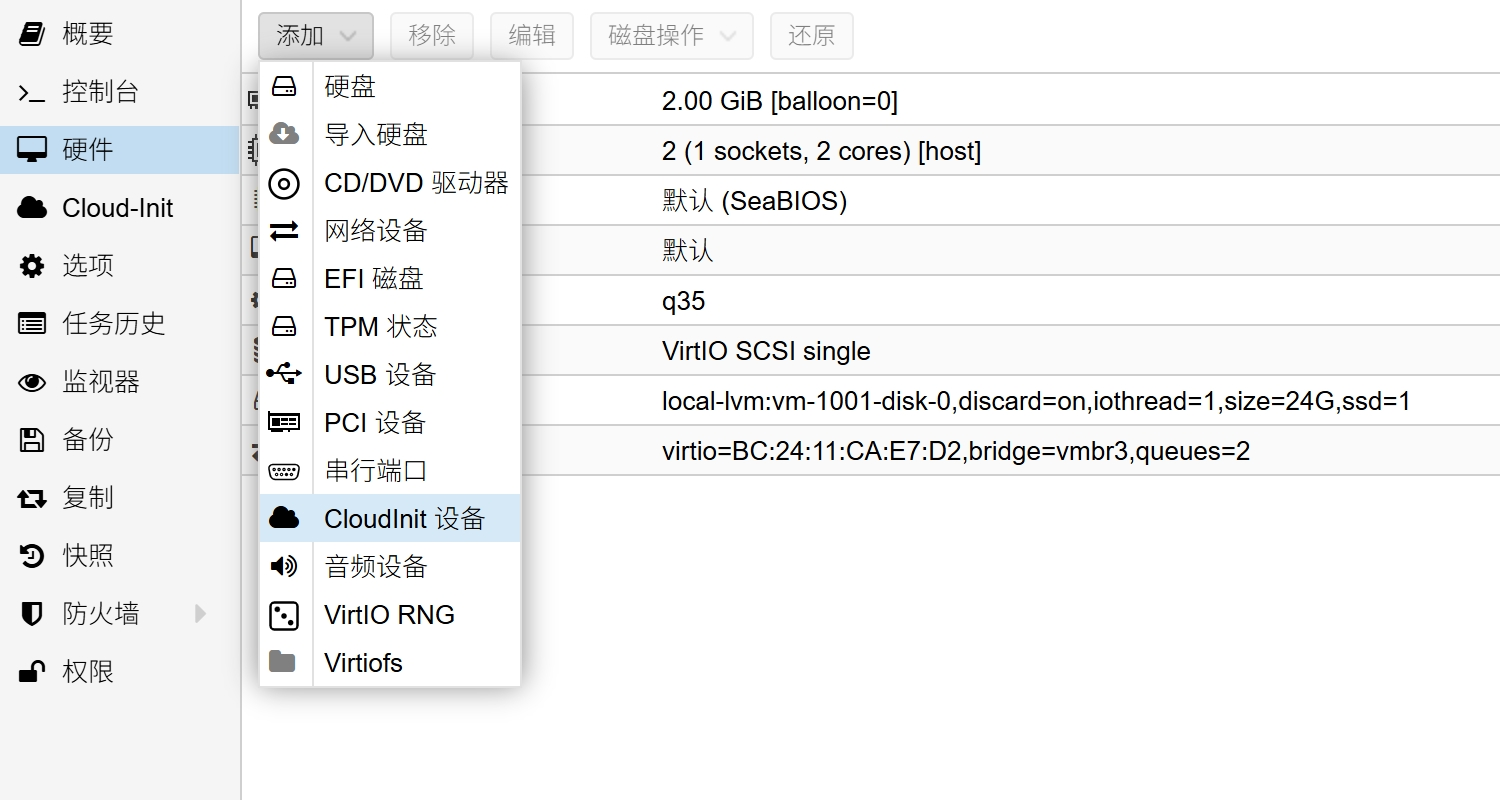
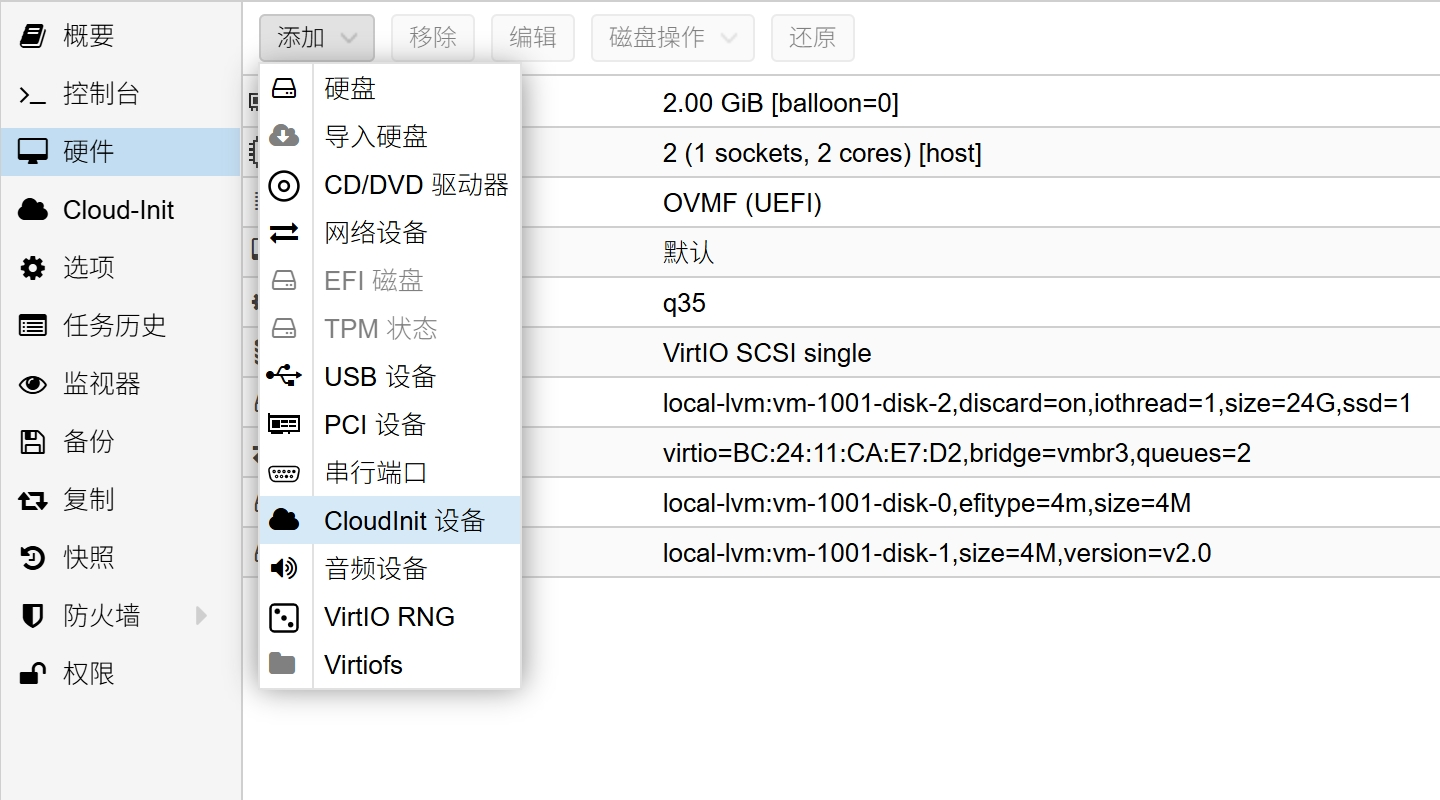
同步更新

diff --git a/06.PVE制作DNS服务器.md b/06.PVE制作DNS服务器.md
@@ -206,7 +206,7 @@ $ sudo systemctl enable dnsmasq.service
 $ sudo systemctl stop dnsmasq.service
 ```
 
-下载 `SmartDNS` 最新版本时，请根据系统架构选择合适的版本，执行以下命令。  
+下载 `SmartDNS` 当前最新版本时，请根据系统架构选择合适的版本，执行以下命令。  
 
 ```bash
 ## 创建存放 SmartDNS 安装包的临时目录
@@ -216,7 +216,7 @@ $ mkdir -p /tmp/SmartDNS
 $ cd /tmp/SmartDNS
 
 ## 下载 SmartDNS 安装包
-$ curl -LR -O https://github.com/pymumu/smartdns/releases/download/Release46.1/smartdns.1.2025.03.02-1533.x86_64-linux-all.tar.gz
+$ curl -LR -O https://github.com/pymumu/smartdns/releases/download/Release47.1/smartdns.1.2025.11.09-1443.x86_64-linux-all.tar.gz
 
 ## 解压缩 SmartDNS 安装包
 $ tar zxf smartdns.*.x86_64-linux-all.tar.gz
@@ -229,6 +229,13 @@ $ chmod +x ./install
 
 ## 安装 SmartDNS
 $ sudo ./install -i
+```
+
+后续 `SmartDNS` 推出新版本需原位升级时：先下载最新版本，再将以下命令替代原安装命令执行，升级后现有配置不会丢失。  
+
+```bash
+## 升级 SmartDNS
+$ sudo ./install -U
 ```
 
 修改 `SmartDNS` 配置之前，需检查 `smartdns.service` 服务状态，确保该服务开机自启。  
@@ -335,9 +342,9 @@ $ sudo editor /etc/smartdns/smartdns.conf
 
 **额外说明：**  
 
-- `SmartDNS` 端口监听参数为 `6053@lo` ，请根据实际情况进行调整  
+- `SmartDNS` 端口监听参数为 `6053@lo` ，WebUI 端口监听参数为 `5380` ，请根据实际情况进行调整  
 
-- 检查配置文件中关于本地域名及其上游 DNS 服务器相关配置，请根据实际情况进行调整  
+- WebUI 默认用户名密码为 `admin/password` ，若需公网访问建议将默认密码修改为强密码  
 
 ```bash
 # This configuration file is customized by fox,
@@ -359,6 +366,18 @@ conf-file /etc/smartdns.d/*.conf
 
 log-level notice
 log-console yes
+log-size 16M
+log-num 8
+
+audit-enable yes
+audit-SOA yes
+audit-size 16M
+audit-num 8
+
+plugin smartdns_ui.so
+smartdns-ui.ip https://[::]:5380
+smartdns-ui.token-expire 1800
+smartdns-ui.max-query-log-age 604800
 
 bind [::]:6053@lo
 bind-tcp [::]:6053@lo
@@ -378,14 +397,13 @@ rr-ttl-min 60
 rr-ttl-max 28800
 rr-ttl-reply-max 14400
 
-server-tcp 180.184.1.1 -bootstrap-dns
-server-tcp 114.114.114.114 -bootstrap-dns
-server-tcp 2400:3200::1 -bootstrap-dns
+server-tls dot.pub -host-ip 120.53.53.53 -bootstrap-dns
+server-tls dns.alidns.com -host-ip 223.5.5.5 -bootstrap-dns
 
-server-tls dot.pub
-server-tls dns.alidns.com
+server-quic dns.alidns.com
 
 server-https https://doh.pub/dns-query
+server-https https://doh.360.cn/dns-query
 server-https https://dns.alidns.com/dns-query
 
 ```

diff --git a/04.PVE创建模板虚拟机.md b/04.PVE创建模板虚拟机.md
@@ -30,13 +30,15 @@
 
 SCSI 控制器保持默认 `VirtIO SCSI single` ，机型可选 `q35` ，并勾选 `Qemu代理` 选项。  
 
+固件可选 `OVMF (UEFI)` ，并勾选 `添加 TPM` 选项，存储路径需根据实际情况进行调整，演示为 `local-lvm` 。  
+
+`预注册密钥` 可按需启用，若启用将预装特定于发行版和 Microsoft 标准的安全启动密钥。  
+
 ![虚拟机系统](img/p04/vm_system.jpeg)
 
 ### 1.4.磁盘
 
-一般情况下，如果该虚拟机仅为 Adguard Home 服务器，`20G` 磁盘空间足够使用。  
-
-由于使用 Debian 云镜像制作虚拟机模板，此处删除所有 `磁盘` 。  
+因使用 Debian 云镜像制作虚拟机模板，此处需删除所有 `磁盘` 。  
 
 ![虚拟机磁盘](img/p04/vm_hd.jpeg)
 
@@ -122,7 +124,7 @@ $ sha512sum debian-13-generic-amd64.qcow2
 $ qm importdisk 1001 debian-13-generic-amd64.qcow2 local-lvm
 
 #### 镜像导入示例输出
-unused0: successfully imported disk 'local-lvm:vm-1001-disk-0'
+unused0: successfully imported disk 'local-lvm:vm-1001-disk-2'
 ```
 
 磁盘导入成功后，虚拟机硬件列表中将显示一块未使用的磁盘设备，可鼠标 **双击** 该设备进行配置调整。  
@@ -151,15 +153,27 @@ unused0: successfully imported disk 'local-lvm:vm-1001-disk-0'
 
 ### 2.3.添加 CloudInit
 
-为了能够正常使用 Cloud-Init 初始化系统，需要给模板虚拟机添加 `CloudInit 设备` 。  
+为确保 Cloud-Init 能正常初始化系统，需为模板虚拟机添加 `CloudInit 设备` 。  
 
 点击顶部 `添加` 菜单，选择 `CloudInit 设备` 。  
 
 ![虚拟机添加ci](img/p04/vm_cloudinit.jpeg)
 
-`总线/设备` 选择 `SCSI` ，编号为 `1` ，`存储` 选择 `local-lvm` 。  
+`总线/设备` 选择 `SCSI` ，编号为 `1` ，存储路径需根据实际情况进行调整，演示为 `local-lvm` 。  
 
 ![虚拟机ci参数](img/p04/vm_ci_details.jpeg)
+
+### 2.4.添加 VirtIO RNG
+
+为确保系统拥有充足的可用熵，需为模板虚拟机添加 `VirtIO RNG` 熵源。  
+
+点击顶部 `添加` 菜单，选择 `VirtIO RNG` 。  
+
+![虚拟机添加RNG](img/p04/vm_rng.jpeg)
+
+`熵源` 选择 `/dev/urandom` ，其余参数保持默认即可。  
+
+![虚拟机RNG参数](img/p04/vm_rng_details.jpeg)
 
 虚拟机硬件设备修改完成后，如下图所示。  
 

diff --git a/02.PVE初始化配置.md b/02.PVE初始化配置.md
@@ -158,7 +158,7 @@ $ apt full-upgrade
 $ apt update
 
 ## 安装系统软件
-$ apt install btop lm-sensors curl tmux neovim unzip unattended-upgrades powermgmt-base sshguard
+$ apt install btop lm-sensors curl tmux neovim unzip unattended-upgrades powermgmt-base sshguard knot-dnsutils
 
 ## 安装 CPU 调度调整工具
 $ apt install linux-cpupower
@@ -190,8 +190,9 @@ $ journalctl --update-catalog
 |系统|作用|说明|
 |--|--|--|
 |RouterOS|主路由|PPPoE 拨号上网|
-|Debian|Linux 服务器|内网 DNS 服务器|
-|OpenWrt|旁路由|内网插件服务|
+|Debian|DNS 服务器|内网 DNS 服务器|
+|Debian|TS 服务器|内网 TS 组网服务器|
+|OpenWrt|旁路网关|内网插件服务|
 
 根据 **内部网络地址** 规划，PVE IP 地址规划如下。  
 

diff --git a/05.PVE制作虚拟机模板.md b/05.PVE制作虚拟机模板.md
@@ -424,6 +424,9 @@ $ sudo bash -c 'apt clean && apt autoclean && apt autoremove --purge'
 ## 清理系统缓存
 $ sudo bash -c 'find /var/cache/apt/ /var/cache/smartdns/ /var/lib/apt/lists/ /tmp/ -type f -print -delete'
 
+## 重置机器标识符
+$ sudo truncate -s 0 /etc/machine-id /var/lib/dbus/machine-id
+
 ## 清理系统日志
 $ sudo bash -c 'find /var/log/ -type f -print -delete'
 
